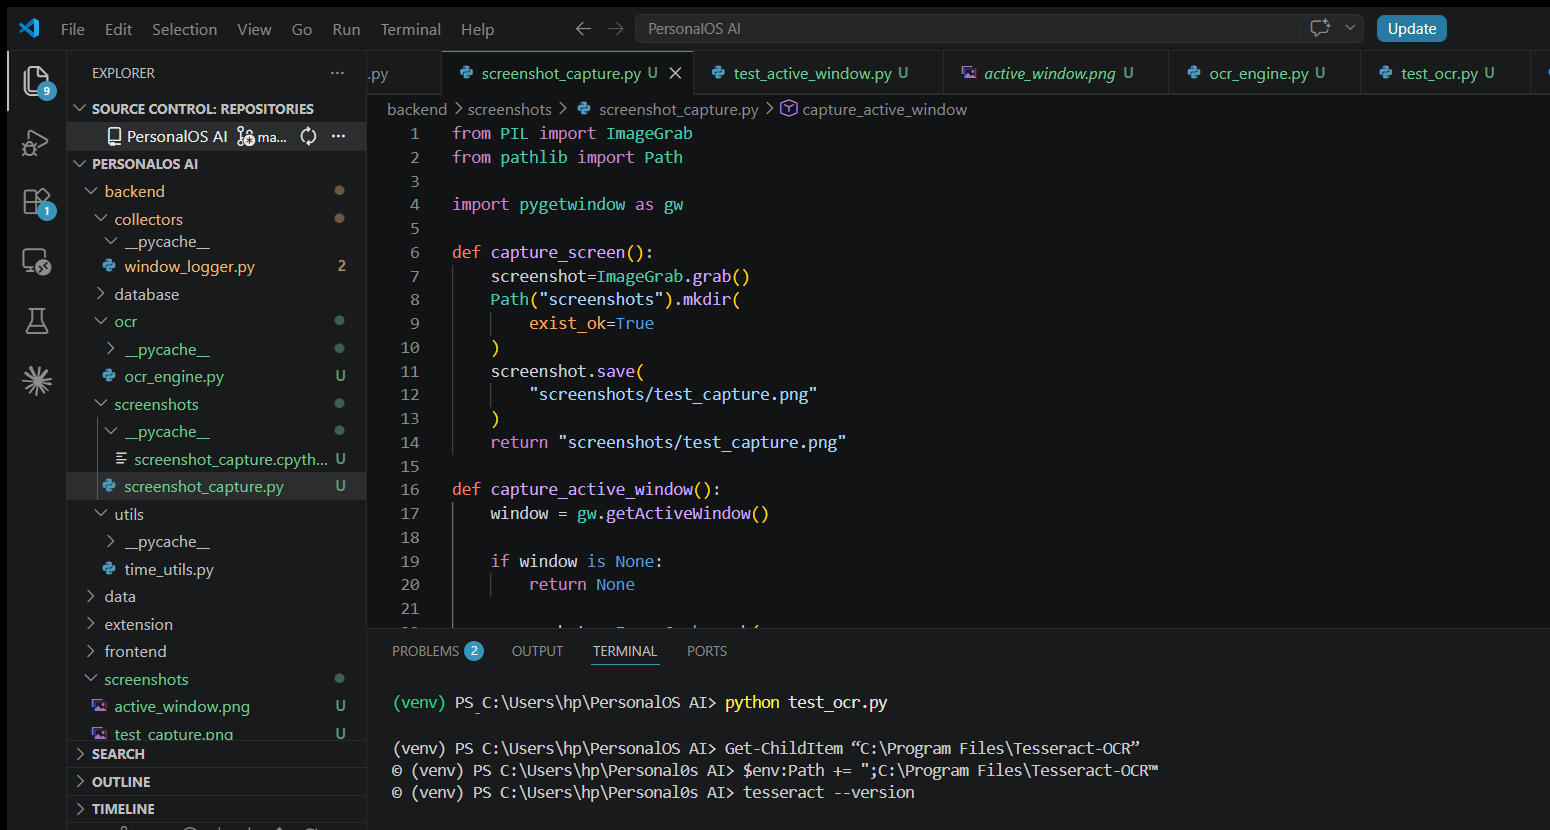
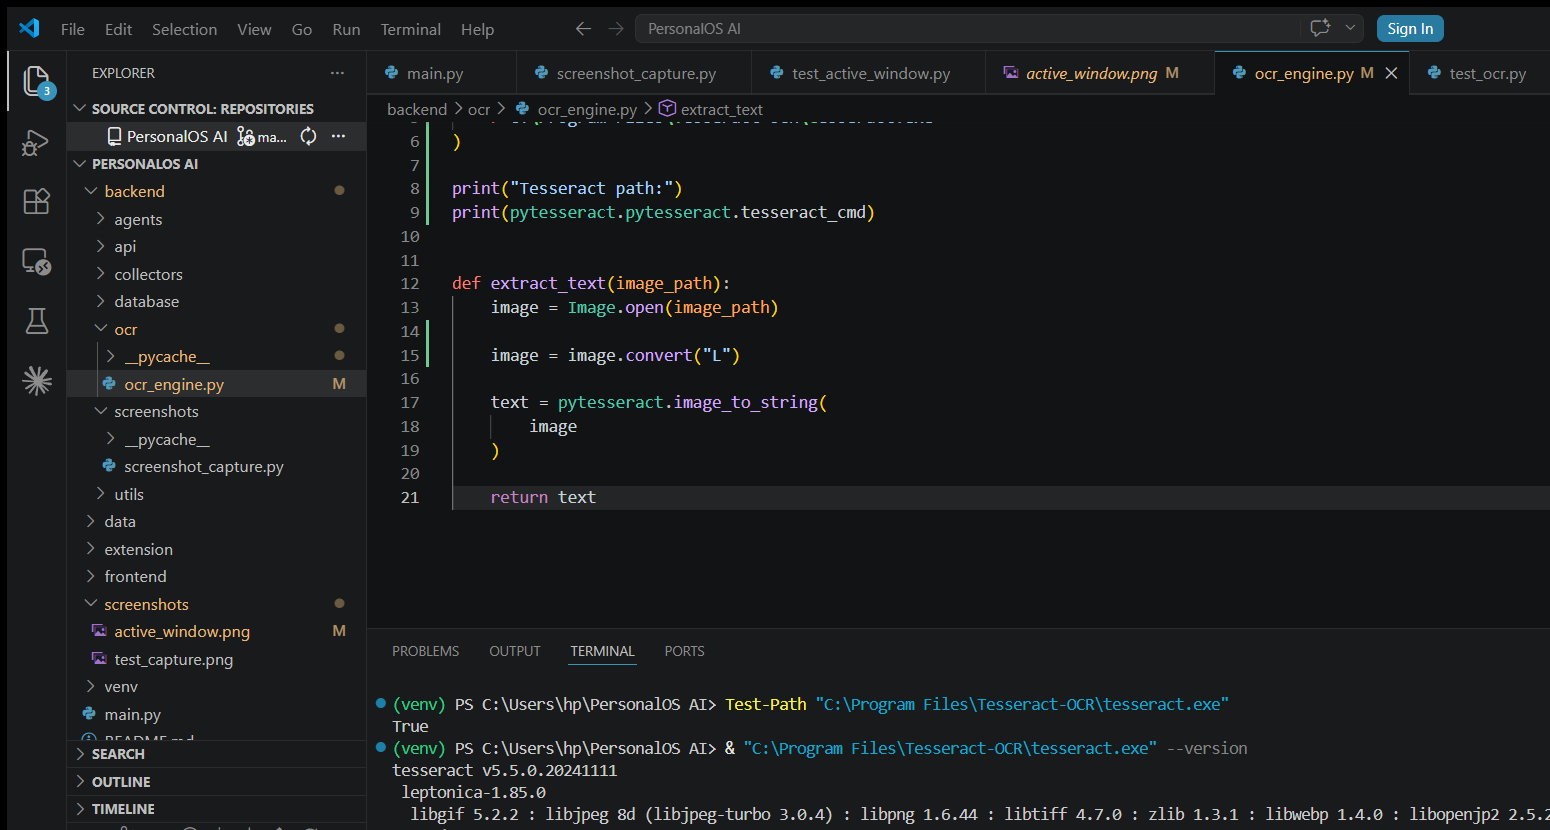
Tesseract implement

diff --git a/backend/database/db.py b/backend/database/db.py
@@ -24,18 +24,39 @@ def initialize_database():
     conn.commit()
     conn.close()
 
-def insert_activity(timestamp,app_name,window_title,source):
-    conn=get_connection()
-    cursor=conn.cursor()
+def insert_activity(
+    timestamp,
+    app_name,
+    window_title,
+    source,
+    ocr_text=None
+):
+    conn = get_connection()
+
+    cursor = conn.cursor()
+
     cursor.execute("""
-     INSERT INTO activity_logs
-     (timestamp,app_name,window_title,source)
-     VALUES(?,?,?,?)
-    """,(timestamp,app_name,window_title,source))
+        INSERT INTO activity_logs
+        (
+            timestamp,
+            app_name,
+            window_title,
+            ocr_text,
+            source
+        )
+        VALUES (?, ?, ?, ?, ?)
+    """,
+    (
+        timestamp,
+        app_name,
+        window_title,
+        ocr_text,
+        source
+    ))
 
     conn.commit()
     conn.close()
-
+    
 def get_all_activities():
     conn=get_connection()
     cursor=conn.cursor()

diff --git a/test_ocr_db.py b/test_ocr_db.py
@@ -1,0 +1,22 @@
+from backend.ocr.ocr_engine import extract_text
+
+from backend.database.db import (
+    insert_activity,
+    get_all_activities
+)
+
+text = extract_text(
+    "screenshots/active_window.png"
+)
+
+insert_activity(
+    "2026-05-31T10:00:00",
+    "Code.exe",
+    "VS Code",
+    "ocr",
+    text
+)
+
+activities = get_all_activities()
+
+print(activities[-1])

diff --git a/backend/ocr/ocr_engine.py b/backend/ocr/ocr_engine.py
@@ -1,9 +1,14 @@
 import pytesseract
 from PIL import Image
 
+pytesseract.pytesseract.tesseract_cmd = (
+    r"C:\Program Files\Tesseract-OCR\tesseract.exe"
+)
 
 def extract_text(image_path):
     image = Image.open(image_path)
+
+    image = image.convert("L")
 
     text = pytesseract.image_to_string(
         image